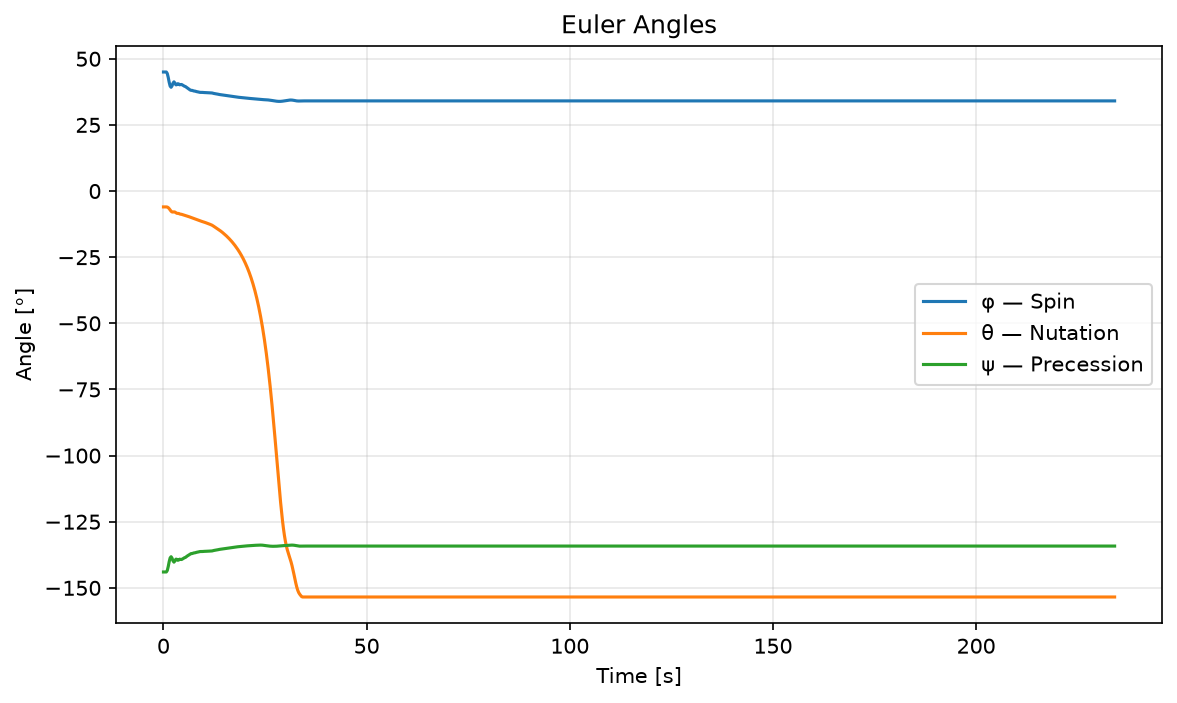
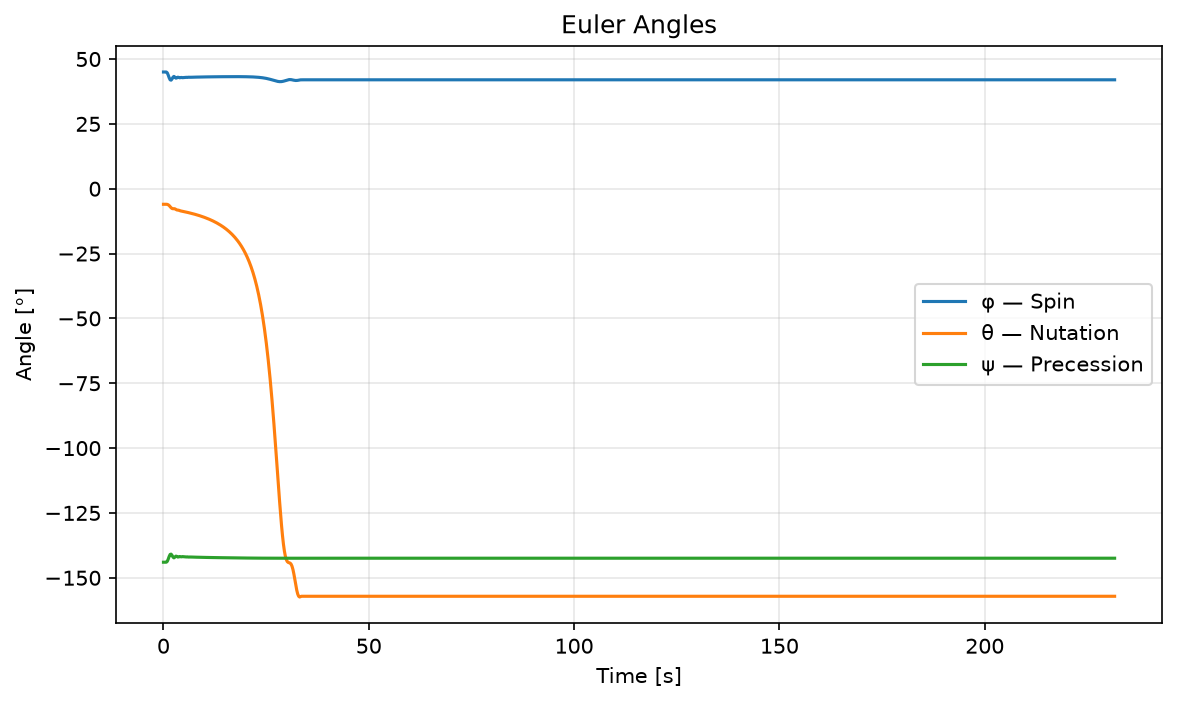
add cd_mach.csv and adapt the code

diff --git a/RocketPy_26/simulator.py b/RocketPy_26/simulator.py
@@ -70,7 +70,6 @@ mode_Inertia             = struct.mode_Inertia
 l_center_of_mass         = struct.l_center_of_mass
 m_dry_measured           = struct.m_dry_measured
 r_rocket                 = struct.r_rocket
-drag_coeff_rocket        = struct.drag_coeff_rocket
 top_r_bt                 = struct.top_r_bt
 bottom_r_bt              = struct.bottom_r_bt
 l_bt                     = struct.l_bt
@@ -2268,8 +2267,8 @@ with open(copv_eth_csv_path, mode="w", newline="") as file:
 # ============================================================
 env = Environment(latitude=latitude, longitude=longitude, elevation=elevation)
 env.set_date(date=(annee, mois, jour, heure, minute))
-env.set_atmospheric_model(type="Windy", file="ECMWF")
-# env.set_atmospheric_model(type="standard_atmosphere")
+#env.set_atmospheric_model(type="Windy", file="ECMWF")
+env.set_atmospheric_model(type="standard_atmosphere")
 # env.set_atmospheric_model( # +90° crosswind
 #     type="custom_atmosphere",
 #     wind_u=-6.472,
@@ -2493,8 +2492,8 @@ firehorn2 = Rocket(
     radius=r_rocket,
     mass=m_dry,
     inertia=(Ix, Iy, Iz),
-    power_off_drag=drag_coeff_rocket,
-    power_on_drag=drag_coeff_rocket,
+    power_off_drag="cd_mach.csv",
+    power_on_drag="cd_mach.csv",
     center_of_mass_without_motor=z_cm,
     coordinate_system_orientation="tail_to_nose",
 )
